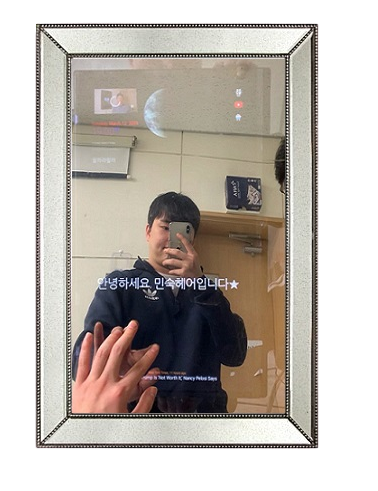
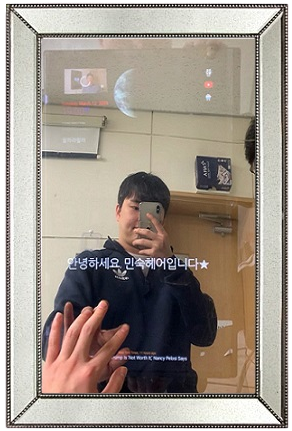
Change project_img width and home backgorund
work섹션의 프로젝트 이미지 크기를 변경하였다. 그리고 홈 바탕화면의 fixd 옵션을 해제하였다.

diff --git a/index.html b/index.html
@@ -375,7 +375,7 @@
             <a
              href="https://github.com/ENTITYSmartMirror/BeautyMirror" class="project" target="blank" data-type="frontend"
              >
-                <img class="project_img" src="./img/application.png" alt="BeautyMirror">
+                <img class="project_img" src="./img/c.png" alt="BeautyMirror">
                 <div class="project_description">
                     <h3>Beauty Mirror</h3>
                     <span>with Magicmirror</span>
@@ -384,7 +384,7 @@
             <a
              href="https://github.com/ENTITYSmartMirror/BeautyMirror" class="project" target="blank" data-type="backend"
              >
-                <img class="project_img" src="./img/project4.png" alt="BeautyMirror">
+                <img class="project_img" src="./img/application.png" alt="BeautyMirror">
                 <div class="project_description">
                     <h3>Beauty Mirror</h3>
                     <span>with Magicmirror</span>

diff --git a/style.css b/style.css
@@ -825,8 +825,8 @@ h1 span:nth-child(14) {
 }
 
 .project_img {
-  max-width: 100%;
-  max-height: 100%;
+  max-width: 70%;
+  max-height: 70%;
 }
 
 .project_description {
@@ -1083,6 +1083,12 @@ h1 span:nth-child(14) {
     --font-regular: 16px;
     --font-small: 14px;
     --font-micro: 12px;
+  }
+  #home {
+    padding-top: 120px;
+    width: 100vw;
+    height: 100vh;
+    background: url(img/moon.jpeg) center/cover no-repeat;
   }
 
   .navbar_toggle-btn {
